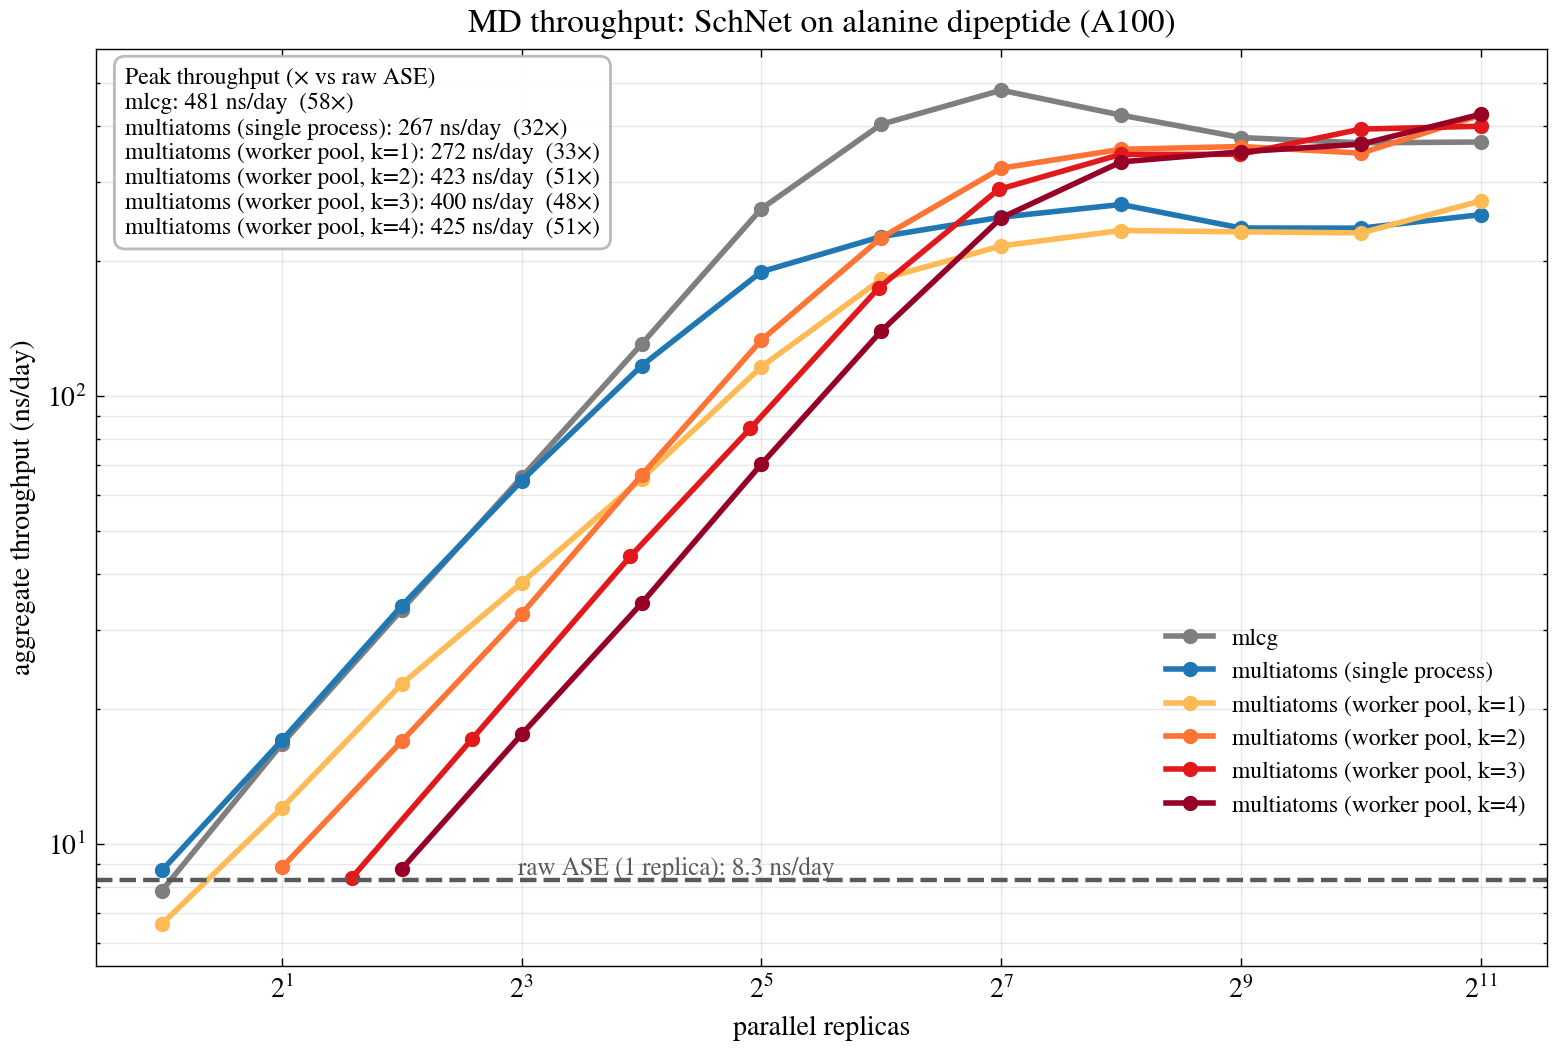
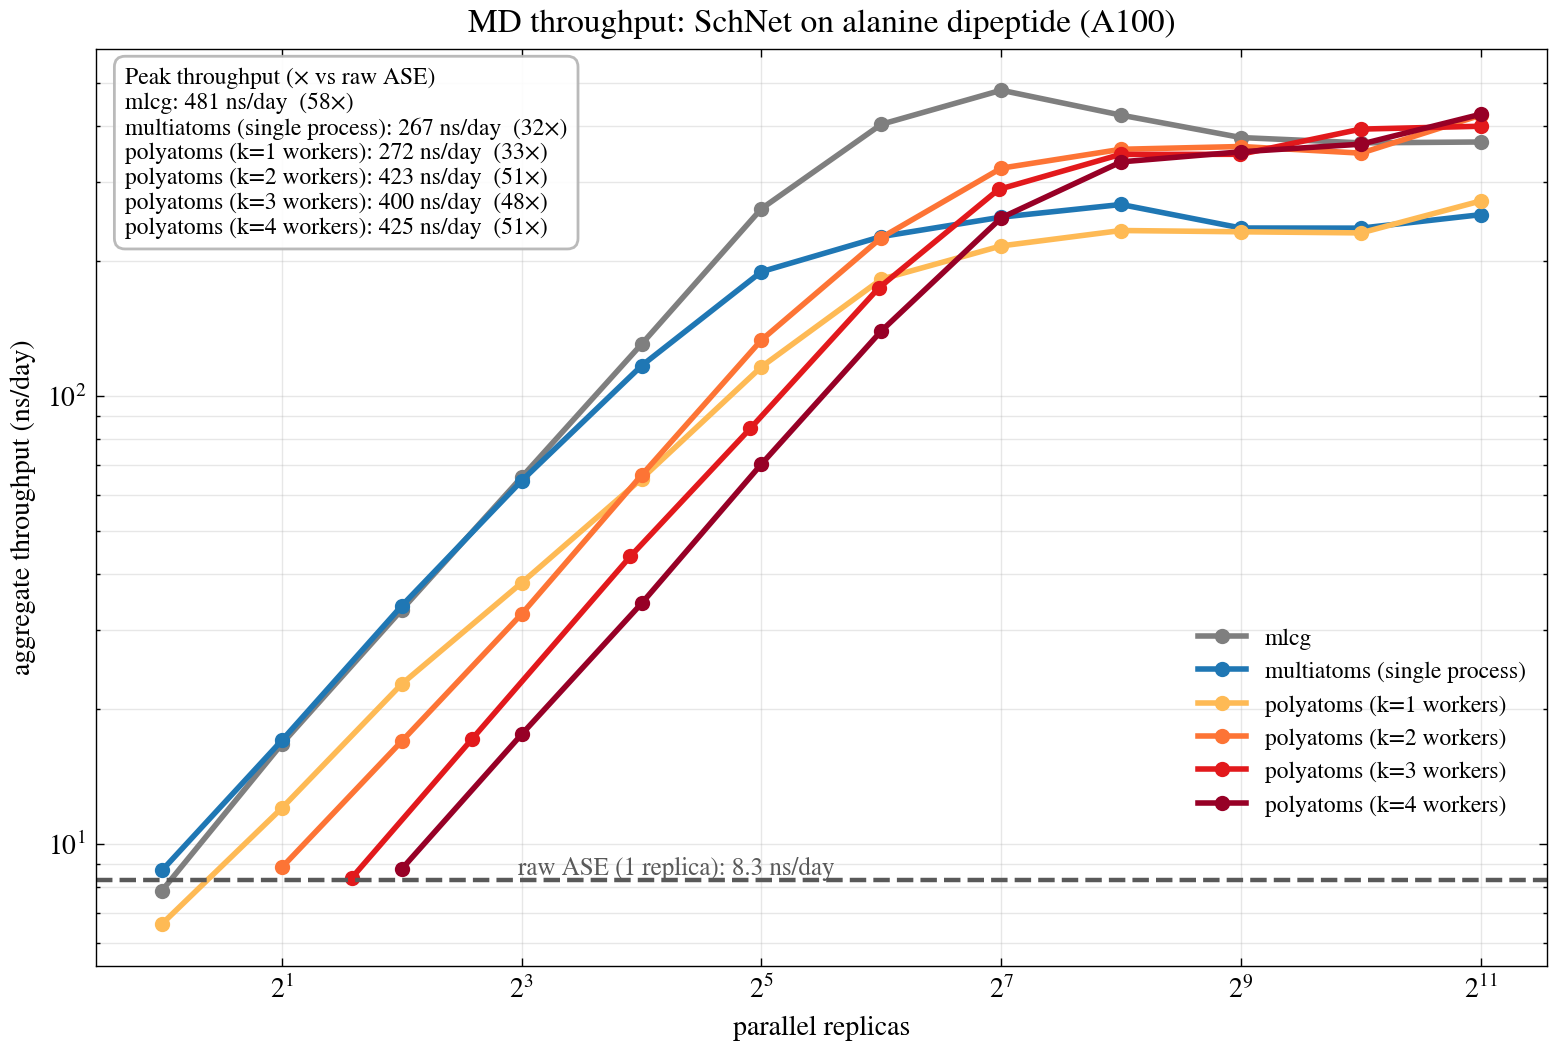
relabel the worker pool series as polyatoms in the throughput figure

Changed region(s): [[0.7404, 0.579, 0.9871, 0.7924], [0.0925, 0.061, 0.401, 0.2438]]

diff --git a/README.md b/README.md
@@ -11,20 +11,20 @@
   </a>
 </p>
 
-Parallel, GPU-batched molecular dynamics on top of [ASE](https://wiki.fysik.dtu.dk/ase/).
+Parallel, GPU-batched molecular dynamics (MD) on top of [ASE](https://wiki.fysik.dtu.dk/ase/).
 
 ML potentials are fast per atom, but small systems underfill the GPU. Stepping
 `N` copies in lockstep and batching their force evaluations turns `N` tiny
 forward passes into one big one, which is where the throughput comes from.
 
-![MD throughput scaling on an A100](docs/throughput_scaling.png)
+The figure below shows where that lands. Throughput is measured on one A100 with
+a SchNet model, alanine dipeptide, no solvent. Raw ASE manages 8.3 ns/day.
+`MultiAtoms` takes that to 267 ns/day (32×), and `PolyAtoms` reaches ~423 ns/day
+(51×). That is within ~12% of [mlcg](https://github.com/ClementiGroup/mlcg), a
+fully GPU-native code, while every simulation stays a standard ASE object driven
+by a standard ASE integrator.
 
-> [!NOTE]
-> MD throughput on one A100 (SchNet, alanine dipeptide, no solvent). multiatoms
-> takes raw ASE from 8.3 → 267 ns/day single-process (32×), and the PolyAtoms
-> worker pool reaches ~423 ns/day (51×), within ~12% of
-> [mlcg](https://github.com/ClementiGroup/mlcg), a fully GPU-native code, while
-> every simulation stays a standard ASE object driven by a standard ASE integrator.
+![MD throughput scaling on an A100](docs/throughput_scaling.png)
 
 `MultiAtoms` runs many MD simulations at once and batches their model
 evaluations into a single forward pass. The simulations themselves are ordinary
